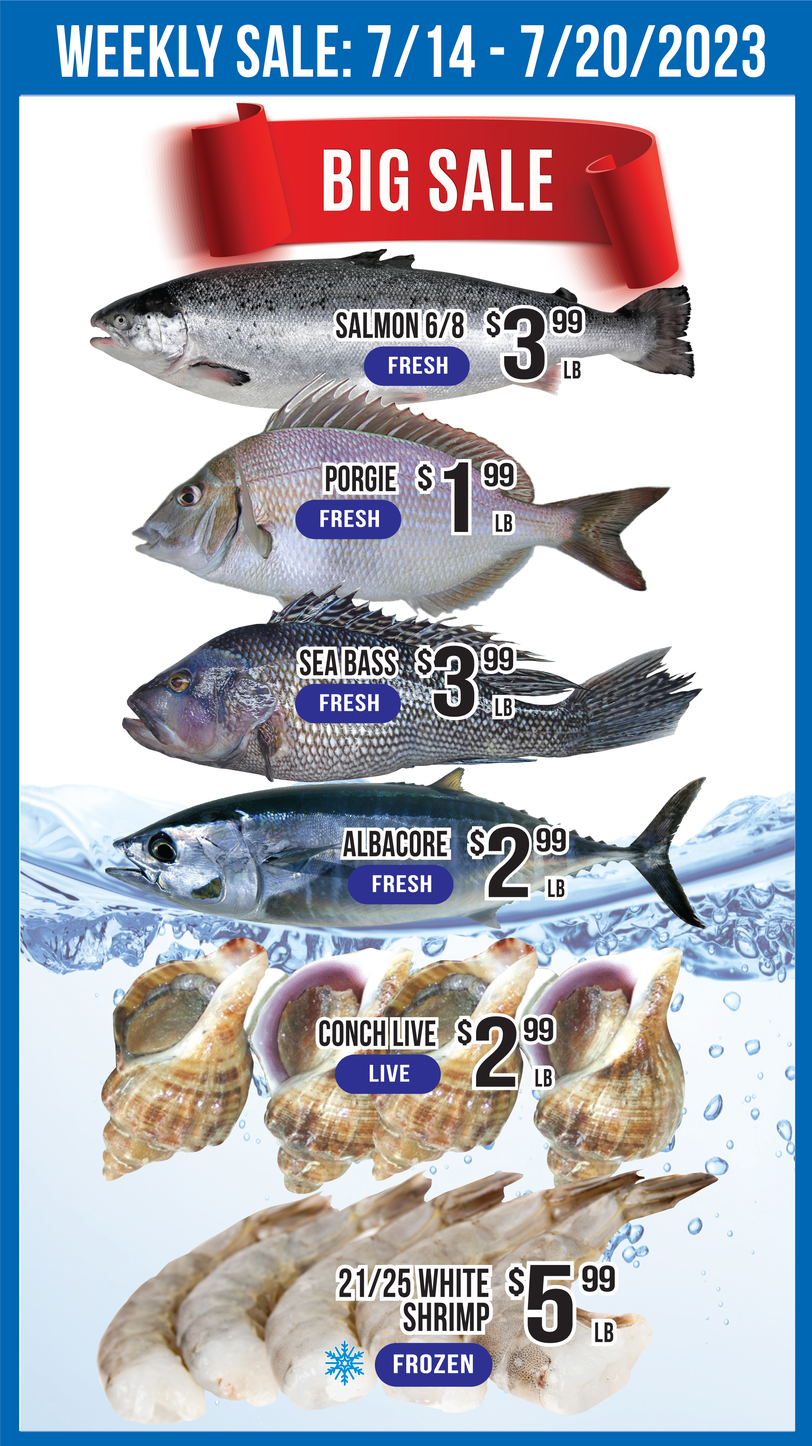
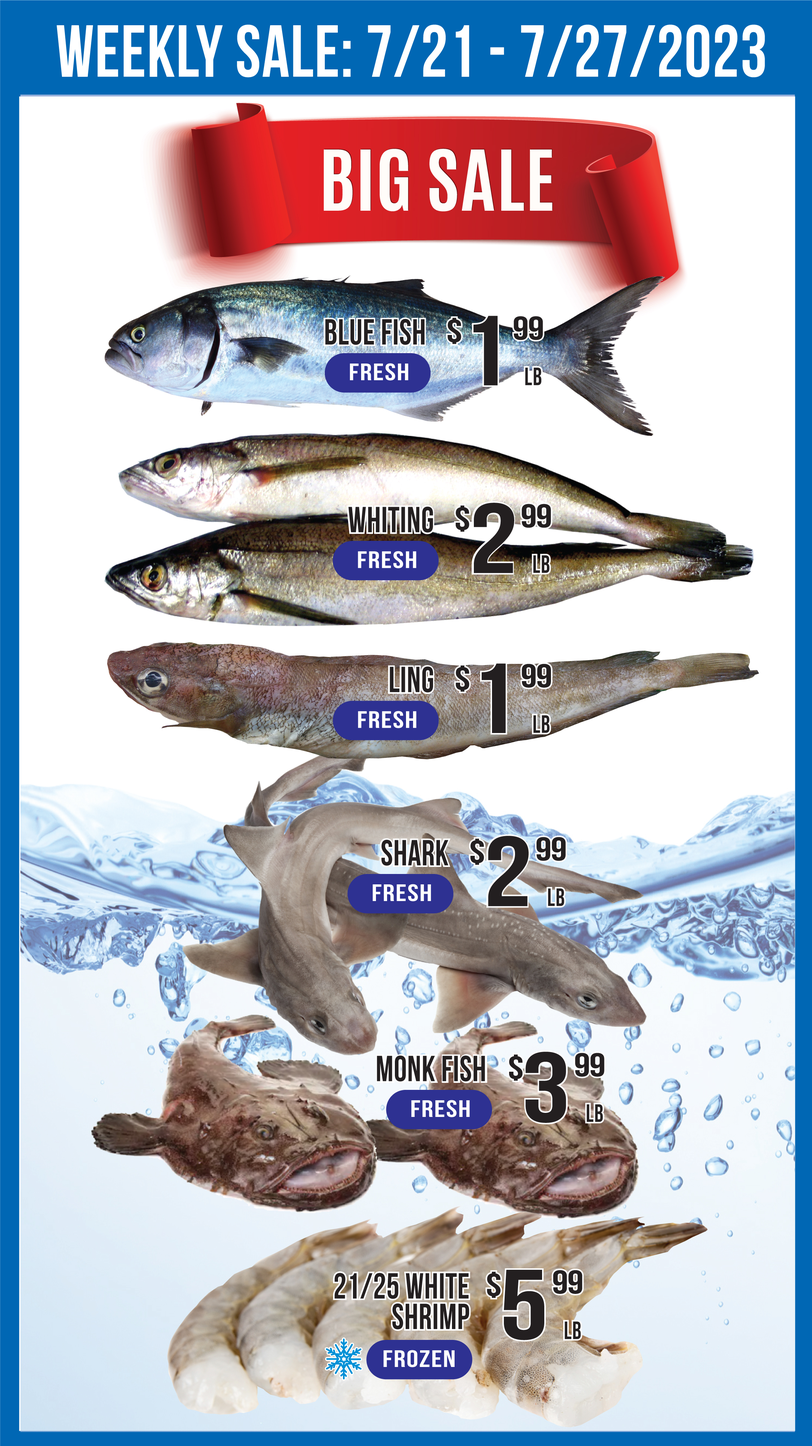
weekly specials

diff --git a/index.html b/index.html
@@ -64,16 +64,16 @@
           <img src="./public/assets/sp.jpg" class="d-block w-100 img-fluid" alt="...">
         </div> -->
         <div class="carousel-item center-carousel active">
-          <img src="./public/assets/sale/meat.jpg?v=071423" class="img-fluid" alt="...">
+          <img src="./public/assets/sale/meat.jpg?v=072123" class="img-fluid" alt="...">
         </div>
         <div class="carousel-item center-carousel">
-          <img src="./public/assets/sale/veg.jpg?v=071423" class="img-fluid" alt="...">
+          <img src="./public/assets/sale/veg.jpg?v=072123" class="img-fluid" alt="...">
         </div>
         <div class="carousel-item center-carousel">
-          <img src="./public/assets/sale/fish.jpg?v=071423" class="img-fluid" alt="...">
+          <img src="./public/assets/sale/fish.jpg?v=072123" class="img-fluid" alt="...">
         </div>
         <div class="carousel-item center-carousel">
-          <img src="./public/assets/sale/grocery.jpg?v=071423" class="img-fluid" alt="...">
+          <img src="./public/assets/sale/grocery.jpg?v=072123" class="img-fluid" alt="...">
         </div>
         <!-- <div class="carousel-item center-carousel">
           <img src="./public/assets/sale/grocery2.jpg?v=070623" class="img-fluid" alt="...">

diff --git a/deals.html b/deals.html
@@ -50,15 +50,15 @@
     <div class="row deal">
 
       <h2>English</h2>
-      <img class="img-fluid" src="./public/assets/weekly/english.jpg?v=071423">
+      <img class="img-fluid" src="./public/assets/weekly/english.jpg?v=072123">
 
       <br><br>
       <h2>Spanish</h2>
-      <img class="img-fluid" src="./public/assets/weekly/spanish.jpg?v=071423">
+      <img class="img-fluid" src="./public/assets/weekly/spanish.jpg?v=072123">
 
       <br>
       <h2>Korean</h2>
-      <img class="img-fluid" src="./public/assets/weekly/korean.jpg?v=071423">
+      <img class="img-fluid" src="./public/assets/weekly/korean.jpg?v=072123">
       <br>
       <br>
     </div>
